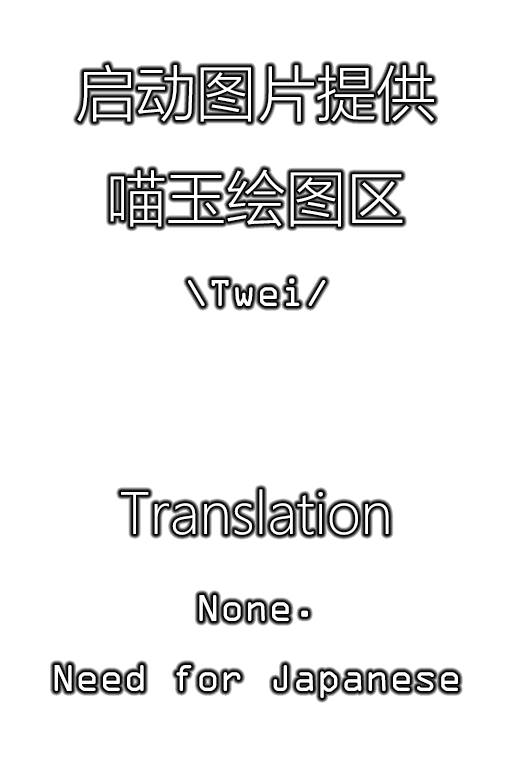
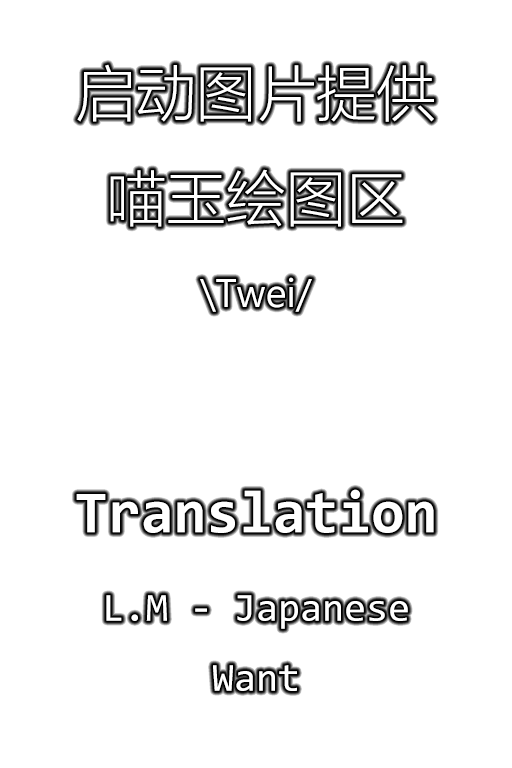
Add Japanese, modify some res

diff --git a/app/src/main/java/com/nyasama/ThisApp.java b/app/src/main/java/com/nyasama/ThisApp.java
@@ -66,7 +66,8 @@ public class ThisApp extends Application {
         Locale[] locales = {
                 Locale.getDefault(),
                 Locale.SIMPLIFIED_CHINESE,
-                Locale.ENGLISH
+                Locale.ENGLISH,
+                Locale.JAPANESE
         };
         for (int i = 0; i < locales.length && i < values.length; i ++)
             if (values[i].equals(language)) return locales[i];
